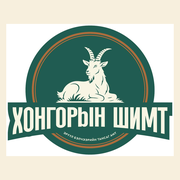
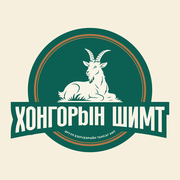
Add files via upload

diff --git a/styles.css b/styles.css
@@ -1,5 +1,16 @@
-:root{--bg:#EEF2F1;--paper:#FFF;--ink:#1D2B2E;--soft:#57676A;--primary:#1F4E5F;--primary-dark:#153745;--accent:#C98A3E;--accent-soft:#F2E1C8;--good:#3F7A5C;--good-soft:#DEEEE4;--bad:#B4463B;--bad-soft:#F7E1DE;--line:#DCE3E2;--radius:14px}
+:root{--bg:#F1F5F3;--paper:#FFF;--ink:#1D2B2E;--soft:#57676A;--primary:#005A4C;--primary-dark:#00382F;--accent:#BB682B;--accent-soft:#F6E3D4;--good:#2F7A5F;--good-soft:#DCEFE7;--bad:#B4463B;--bad-soft:#F7E1DE;--line:#DEE6E3;--radius:14px}
 *{box-sizing:border-box}html,body{margin:0;padding:0}body{background:var(--bg);color:var(--ink);font-family:"Segoe UI","Noto Sans",Roboto,Arial,sans-serif;font-size:16px;line-height:1.4;-webkit-tap-highlight-color:transparent;padding-bottom:24px}button,input,select,textarea{font:inherit}
 header.topbar{background:var(--primary);color:#fff;padding:12px 16px;display:flex;align-items:center;justify-content:space-between;position:sticky;top:0;z-index:50;box-shadow:0 2px 8px rgba(0,0,0,.12);gap:10px}.brand{display:flex;align-items:center;gap:10px}.logo{font-size:25px}.titles{display:flex;flex-direction:column;line-height:1.15}.titles b{font-size:16px}.titles span{font-size:11px;opacity:.8}.top-actions{display:flex;align-items:center;gap:8px}.backbtn,.top-select{background:rgba(255,255,255,.14);color:#fff;border:1px solid rgba(255,255,255,.35);border-radius:8px;padding:8px 10px;font-size:13px}.top-select option{color:#111}.status-dot{width:10px;height:10px;border-radius:50%;display:inline-block;background:#bbb}.status-online{background:#70bf8c}.status-offline{background:#e19c77}
 main{max-width:760px;margin:0 auto;padding:16px}.screen{display:none}.screen.active{display:block}.grid{display:grid;grid-template-columns:1fr 1fr;gap:12px;margin-top:12px}.tile{background:var(--paper);border-radius:var(--radius);border:1px solid var(--line);padding:16px 12px;display:flex;flex-direction:column;align-items:flex-start;gap:6px;cursor:pointer;text-align:left;box-shadow:0 1px 3px rgba(0,0,0,.05)}.tile:active{transform:scale(.98)}.tile.wide{grid-column:1/-1;flex-direction:row;align-items:center;justify-content:space-between}.tile.dashboard{background:var(--primary);color:#fff;border:none}.tile .icon{font-size:28px}.tile .label{font-weight:650;font-size:14.5px}.tile .sub{font-size:11.5px;color:var(--soft)}.tile.dashboard .sub{color:rgba(255,255,255,.76)}
 h2.section-title{font-size:18px;margin:4px 0 14px;color:var(--primary-dark)}.card{background:var(--paper);border:1px solid var(--line);border-radius:var(--radius);padding:16px;margin-bottom:14px}.row2{display:grid;grid-template-columns:1fr 1fr;gap:10px}label{display:block;font-size:13px;color:var(--soft);margin:12px 0 5px;font-weight:650}label:first-of-type{margin-top:0}input,select,textarea{width:100%;padding:11px 12px;border:1.5px solid var(--line);border-radius:10px;font-size:15px;background:#fcfcfb;color:var(--ink)}input:focus,select:focus,textarea:focus{outline:2px solid var(--primary);border-color:var(--primary)}input[readonly]{background:#f0f3f2}.calc-box{background:var(--accent-soft);border-radius:10px;padding:10px 12px;margin-top:10px;font-size:14px;display:flex;justify-content:space-between}.btn-primary{background:var(--primary);color:#fff;padding:13px 16px;width:100%;font-size:16px;margin-top:16px;border:0;border-radius:10px;font-weight:650}.btn-secondary{background:#fff;color:var(--primary);border:1.5px solid var(--primary);padding:10px 14px;font-size:14px;border-radius:10px;font-weight:650}.btn-danger{background:var(--bad);color:#fff;padding:10px 14px;font-size:13px;border:0;border-radius:10px}.btn-ghost{background:transparent;color:var(--soft);padding:8px 10px;font-size:12.5px;border:1px solid var(--line);border-radius:9px}.actions{display:flex;gap:8px;flex-wrap:wrap}.search-bar{margin-bottom:12px}.list-item{background:var(--paper);border:1px solid var(--line);border-radius:12px;padding:12px 14px;margin-bottom:10px}.top-row{display:flex;justify-content:space-between;gap:8px}.batch{font-weight:750;color:var(--primary-dark);font-size:14.5px}.date{font-size:12px;color:var(--soft)}.details{font-size:13.5px;color:var(--soft);margin-top:4px}.actions{margin-top:10px}.empty{text-align:center;padding:34px 16px;color:var(--soft)}.empty .big{font-size:38px;margin-bottom:8px}.badge{display:inline-block;padding:2px 8px;border-radius:20px;font-size:11px;font-weight:750}.good{background:var(--good-soft);color:var(--good)}.bad{background:var(--bad-soft);color:var(--bad)}.neutral{background:var(--accent-soft);color:#8c5f1e}.warn{background:var(--bad-soft);color:var(--bad);padding:10px 12px;border-radius:10px;font-size:13px;margin-bottom:12px}.ok{background:var(--good-soft);color:var(--good);padding:10px 12px;border-radius:10px;font-size:13px;margin-bottom:12px}.helper{font-size:12px;color:var(--soft);margin-top:4px}.stat-grid{display:grid;grid-template-columns:1fr 1fr;gap:10px;margin-bottom:14px}.stat{background:var(--paper);border:1px solid var(--line);border-radius:12px;padding:12px 14px}.stat .n{font-size:20px;font-weight:800;color:var(--primary-dark)}.stat .l{font-size:12px;color:var(--soft);margin-top:2px}table{width:100%;border-collapse:collapse;font-size:13px}th,td{padding:8px 6px;text-align:left;border-bottom:1px solid var(--line)}th{color:var(--soft);font-size:12px;font-weight:650}.right{text-align:right}.section-note{font-size:13px;color:var(--soft);margin-top:-6px;margin-bottom:14px}.split{display:flex;justify-content:space-between;gap:10px;align-items:center}.syncbar{display:flex;gap:10px;align-items:center;background:var(--paper);border:1px solid var(--line);padding:10px 12px;border-radius:12px;margin-bottom:14px;font-size:13px}.spinner{display:inline-block;width:15px;height:15px;border:2px solid #ccc;border-top-color:var(--primary);border-radius:50%;animation:spin .8s linear infinite}@keyframes spin{to{transform:rotate(360deg)}}.modal-back{position:fixed;inset:0;background:rgba(0,0,0,.38);z-index:300;display:flex;align-items:flex-end;justify-content:center;padding:0}.modal{background:#fff;width:min(760px,100%);border-radius:18px 18px 0 0;max-height:88vh;overflow:auto;padding:18px}.modal-head{display:flex;justify-content:space-between;gap:10px;align-items:center}.x{background:#f2f3f2;border:0;border-radius:50%;width:34px;height:34px;font-size:20px}.toast{position:fixed;bottom:20px;left:50%;transform:translateX(-50%);background:var(--ink);color:#fff;padding:12px 20px;border-radius:30px;font-size:14px;z-index:500;opacity:0;pointer-events:none;transition:opacity .2s;box-shadow:0 4px 14px rgba(0,0,0,.25)}.toast.show{opacity:1}.muted{color:var(--soft)}.danger-text{color:var(--bad)}.hidden{display:none!important}@media(max-width:520px){.row2{grid-template-columns:1fr}.topbar{padding:10px 12px}.top-select{max-width:110px}.brand .titles span{display:none}}
+
+/* --- brand --- */
+.logo-img{height:34px;width:34px;border-radius:50%;display:block;flex-shrink:0;background:var(--primary)}
+.tile .icon{line-height:1}
+/* accent rail on the dashboard tile keeps the orange purposeful, not decorative */
+.tile.dashboard{border-left:4px solid var(--accent)}
+/* sync button: brand green, orange icon */
+.syncbar .btn-ghost{color:var(--primary);border-color:var(--line);font-weight:700}
+.syncbar .btn-ghost .ic{color:var(--accent)}
+.btn-primary:active{background:var(--primary-dark)}
+.badge.neutral{background:var(--accent-soft);color:#8A4A19}

diff --git a/public.html b/public.html
@@ -1,6 +1,6 @@
 <!doctype html>
-<html lang="mn"><head><meta charset="utf-8"><meta name="viewport" content="width=device-width,initial-scale=1"><meta name="theme-color" content="#1F4E5F"><title>Хонгорын Шимт — Мөшгөлт</title><link rel="icon" href="./icon-192.png"><link rel="stylesheet" href="./styles.css"></head>
-<body><header class="topbar"><div class="brand"><span class="logo">🐑</span><div class="titles"><b>Хонгорын Шимт</b><span>Бүтээгдэхүүний мөшгөлт</span></div></div></header><main id="publicApp"><div class="card"><h2 class="section-title">Уншиж байна...</h2></div></main>
+<html lang="mn"><head><meta charset="utf-8"><meta name="viewport" content="width=device-width,initial-scale=1"><meta name="theme-color" content="#005A4C"><title>Хонгорын Шимт — Мөшгөлт</title><link rel="icon" href="./icon-192.png"><link rel="stylesheet" href="./styles.css"></head>
+<body><header class="topbar"><div class="brand"><img class="logo-img" src="./logo-mark.png" alt="Хонгорын Шимт"><div class="titles"><b>Хонгорын Шимт</b><span>Бүтээгдэхүүний мөшгөлт</span></div></div></header><main id="publicApp"><div class="card"><h2 class="section-title">Уншиж байна...</h2></div></main>
 <script src="./config.js"></script><script src="https://cdn.jsdelivr.net/npm/@supabase/supabase-js@2"></script><script src="https://cdn.jsdelivr.net/npm/qrcode/build/qrcode.min.js"></script>
 <script>
 (async()=>{const c=window.supabase;const cfg=window.APP_CONFIG||{};const code=new URLSearchParams(location.search).get('code');const root=document.getElementById('publicApp');if(!c||!cfg.SUPABASE_URL||cfg.SUPABASE_URL.includes('PASTE_')){root.innerHTML='<div class="card"><h2 class="section-title">Тохиргоо хийгдээгүй</h2><p>Supabase тохиргоог config.js файлд оруулна уу.</p></div>';return}if(!code){root.innerHTML='<div class="card"><h2 class="section-title">Бүтээгдэхүүний код алга</h2></div>';return}const client=c.createClient(cfg.SUPABASE_URL,cfg.SUPABASE_ANON_KEY);const r=await client.from('public_products').select('*').eq('product_code',code).maybeSingle();if(r.error||!r.data){root.innerHTML='<div class="card"><div class="warn">Бүтээгдэхүүн олдсонгүй.</div></div>';return}const x=r.data;root.innerHTML=`<div class="card"><div id="qr" style="text-align:center"></div><h2 class="section-title">${escapeHtml(x.product_type)}</h2><div class="stat-grid"><div class="stat"><div class="n">${escapeHtml(x.animal_type)}</div><div class="l">Малын төрөл</div></div><div class="stat"><div class="n">${escapeHtml(x.soum)}</div><div class="l">Сум</div></div></div><table><tr><th>Малчин</th><td>${escapeHtml(x.herder_name||'—')}</td></tr><tr><th>Нядалга</th><td>${escapeHtml(x.processing_date||'—')}</td></tr><tr><th>Савлагаа</th><td>${escapeHtml(x.packaging_date||'—')}</td></tr><tr><th>Баталгаажуулалт</th><td>${x.certified?'Тийм':'—'}</td></tr></table><p class="helper" style="margin-top:12px">Код: ${escapeHtml(x.product_code)}</p></div>`;if(window.QRCode){QRCode.toCanvas(document.createElement('canvas'),location.href,{width:180,margin:2},(err,canvas)=>{if(!err)document.getElementById('qr').appendChild(canvas)})}function escapeHtml(s){return String(s??'').replace(/[&<>"']/g,c=>({'&':'&amp;','<':'&lt;','>':'&gt;','"':'&quot;',"'":'&#39;'}[c]))}

diff --git a/app.js b/app.js
@@ -97,7 +97,7 @@ function renderLogin(){
 
 function shell(){
   $('app').innerHTML=`
-  <header class="topbar"><div class="brand"><span class="logo">🐑</span><div class="titles"><b>Мах Хяналт</b><span id="userLabel"></span></div></div><div class="top-actions"><span id="netDot" class="status-dot"></span><select class="top-select" id="soumSelect"><option value="">Сум сонгох</option></select><button class="backbtn" id="logoutBtn">Гарах</button></div></header>
+  <header class="topbar"><div class="brand"><img class="logo-img" src="./logo-mark.png" alt="Хонгорын Шимт"><div class="titles"><b>Мах Хяналт</b><span id="userLabel"></span></div></div><div class="top-actions"><span id="netDot" class="status-dot"></span><select class="top-select" id="soumSelect"><option value="">Сум сонгох</option></select><button class="backbtn" id="logoutBtn">Гарах</button></div></header>
   <main id="main"></main>`;
   SOUMS.forEach(s=>{const o=document.createElement('option');o.value=s.name;o.textContent=s.name;$('soumSelect').appendChild(o)});const sh=document.createElement('option');sh.value='Дэлгүүр';sh.textContent='Дэлгүүр (төв)';$('soumSelect').appendChild(sh);
   // An admin with an assigned soum works only from that location, so the
@@ -128,7 +128,7 @@ function shell(){
 function updateNet(){const d=$('netDot');if(!d)return;d.className='status-dot '+(isOnline()?'status-online':'status-offline');d.title=isOnline()?'Интернэттэй':'Интернэтгүй'}
 function renderHome(){
  const soum=settings.soum||'Сум сонгоогүй';
- $('main').innerHTML=`<div class="syncbar"><span class="status-dot ${isOnline()?'status-online':'status-offline'}"></span><span>${isOnline()?'Интернэттэй':'Интернэтгүй'} · ${settings.lastSync?'Сүүлд синк: '+new Date(settings.lastSync).toLocaleString('mn-MN'):'Одоогоор синк хийгдээгүй'}</span><span style="margin-left:auto"><button class="btn-ghost" onclick="syncNow().then(refreshAll)">🔄 Синк</button></span></div>
+ $('main').innerHTML=`<div class="syncbar"><span class="status-dot ${isOnline()?'status-online':'status-offline'}"></span><span>${isOnline()?'Интернэттэй':'Интернэтгүй'} · ${settings.lastSync?'Сүүлд синк: '+new Date(settings.lastSync).toLocaleString('mn-MN'):'Одоогоор синк хийгдээгүй'}</span><span style="margin-left:auto"><button class="btn-ghost" onclick="syncNow().then(refreshAll)"><span class="ic">🔄</span> Синк</button></span></div>
  <div class="grid">
  <div class="tile wide dashboard" onclick="navigate('dashboard')"><div><div class="label">📊 Хянах самбар</div><div class="sub">Зардал, борлуулалт, гарц</div></div><div style="font-size:26px">›</div></div>
  <div class="tile" onclick="navigate('purchase')"><div class="icon">🛒</div><div class="label">Худалдан авалт</div><div class="sub">Малчнаас мал авах</div></div>

diff --git a/index.html b/index.html
@@ -3,7 +3,7 @@
 <head>
   <meta charset="UTF-8">
   <meta name="viewport" content="width=device-width, initial-scale=1, viewport-fit=cover">
-  <meta name="theme-color" content="#1F4E5F">
+  <meta name="theme-color" content="#005A4C">
   <meta name="description" content="Хонгорын Шимт — offline-first махны мөшгөлт ба үйл ажиллагааны систем">
   <link rel="manifest" href="./manifest.webmanifest">
   <link rel="apple-touch-icon" href="./apple-touch-icon.png">

diff --git a/sw.js b/sw.js
@@ -20,12 +20,12 @@
 //    JSON was expected and the app crashed on parse. The HTML fallback is now
 //    restricted to navigation requests only.
 
-const CACHE = 'khongor-shimt-v7';
+const CACHE = 'khongor-shimt-v8';
 
 const LOCAL_ASSETS = [
   './', './index.html', './app.js', './styles.css', './config.js',
   './manifest.webmanifest', './public.html',
-  './icon-192.png', './icon-512.png'
+  './icon-192.png', './icon-512.png', './logo-mark.png', './apple-touch-icon.png'
 ];
 
 const CDN = [
